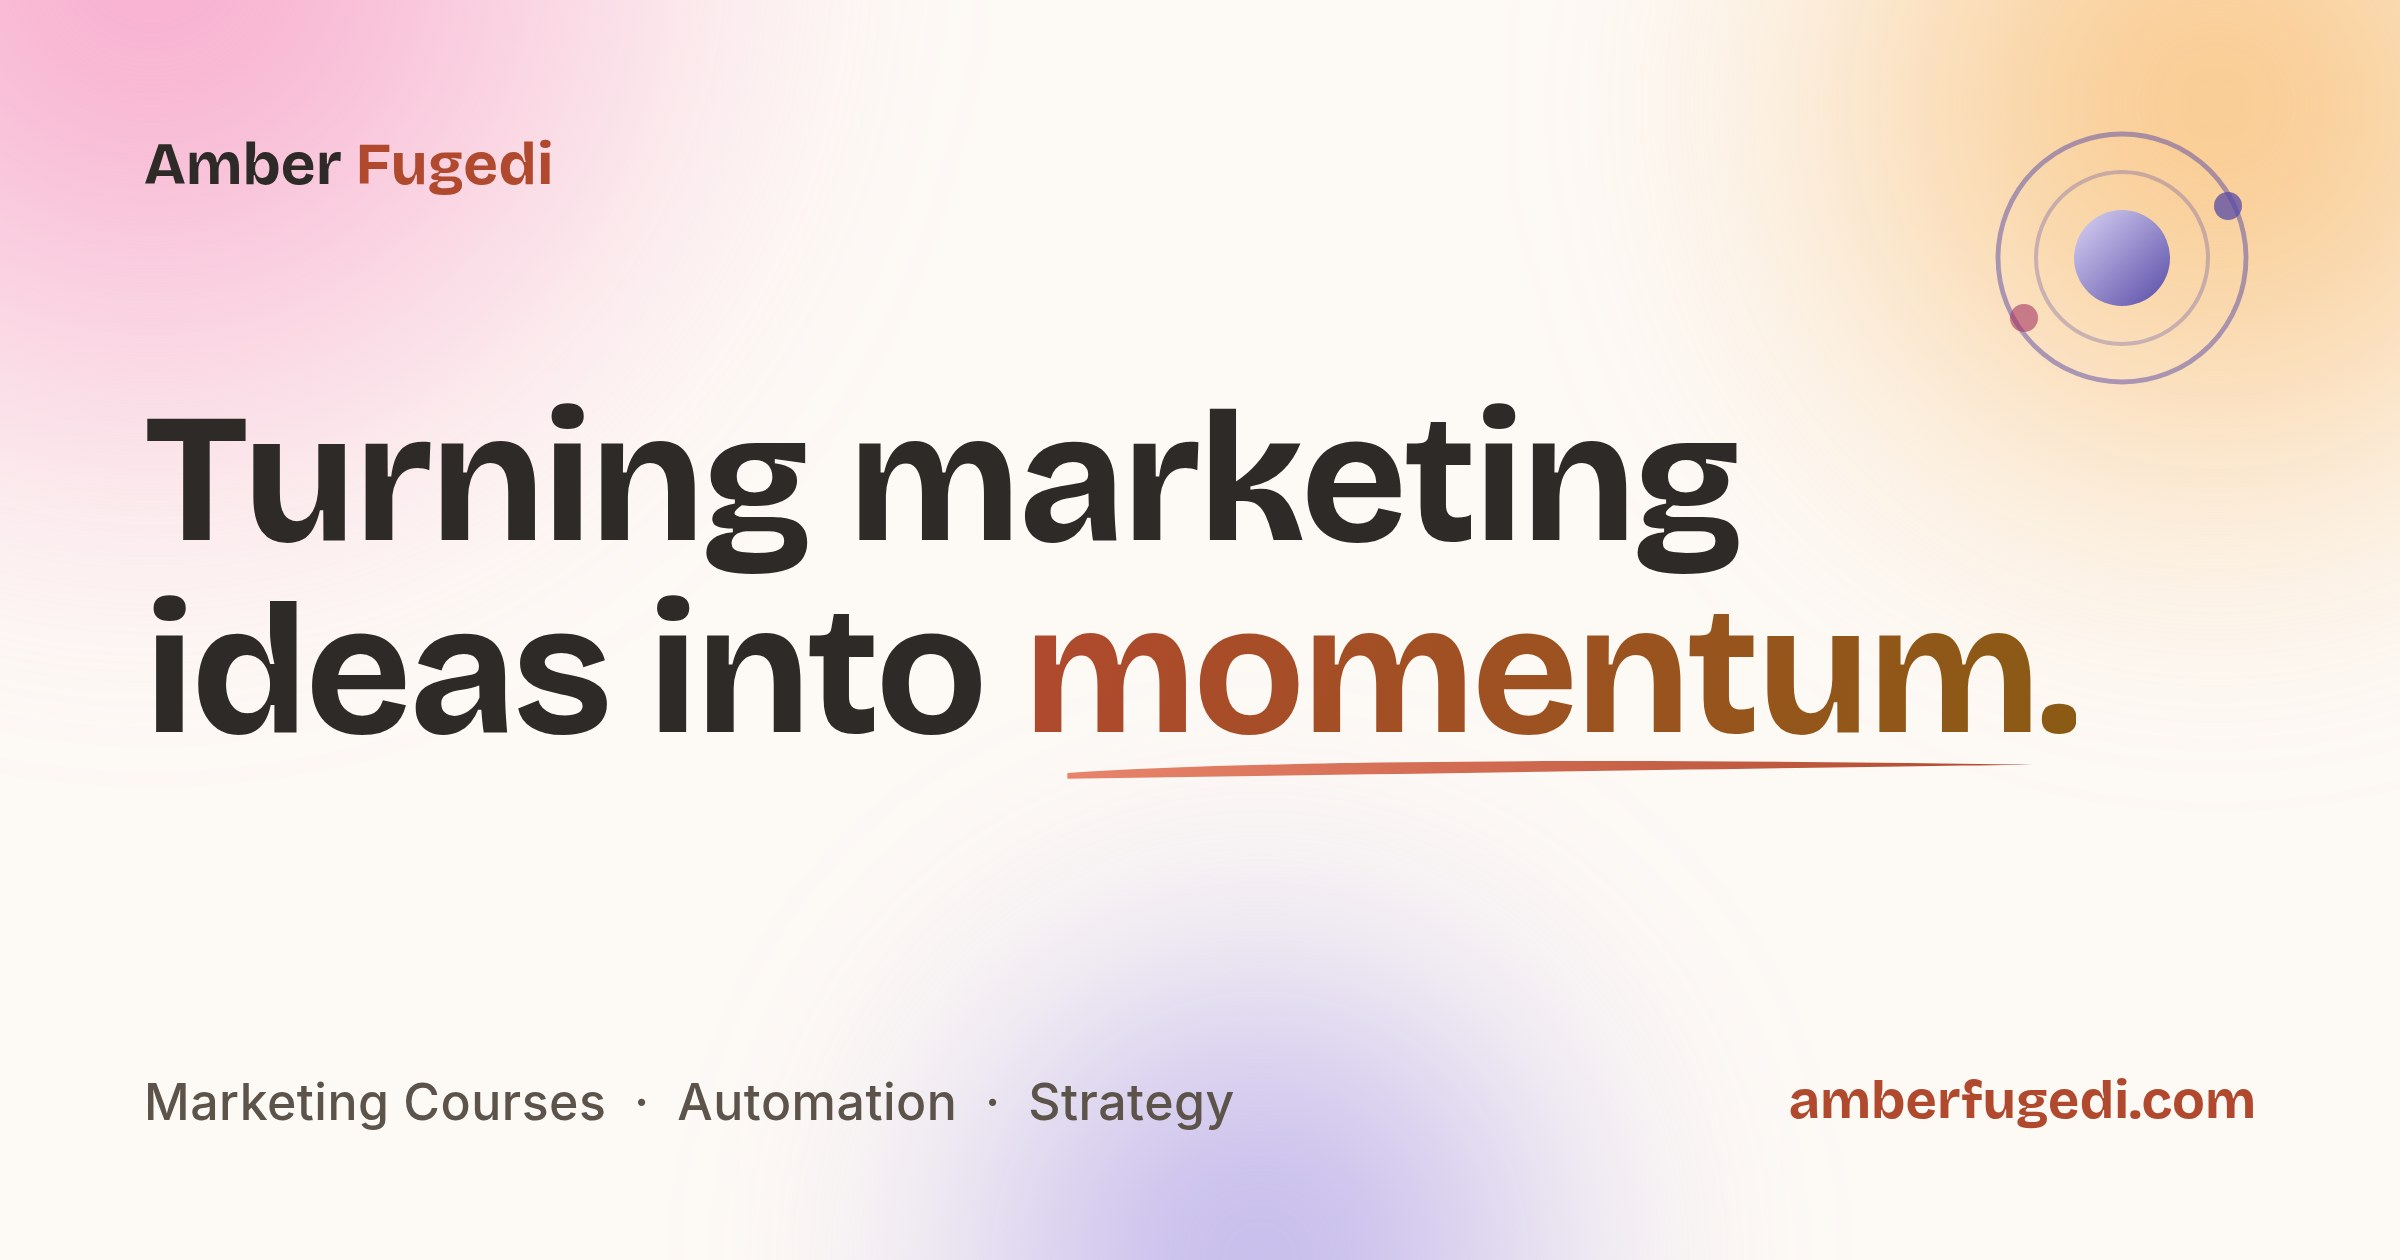
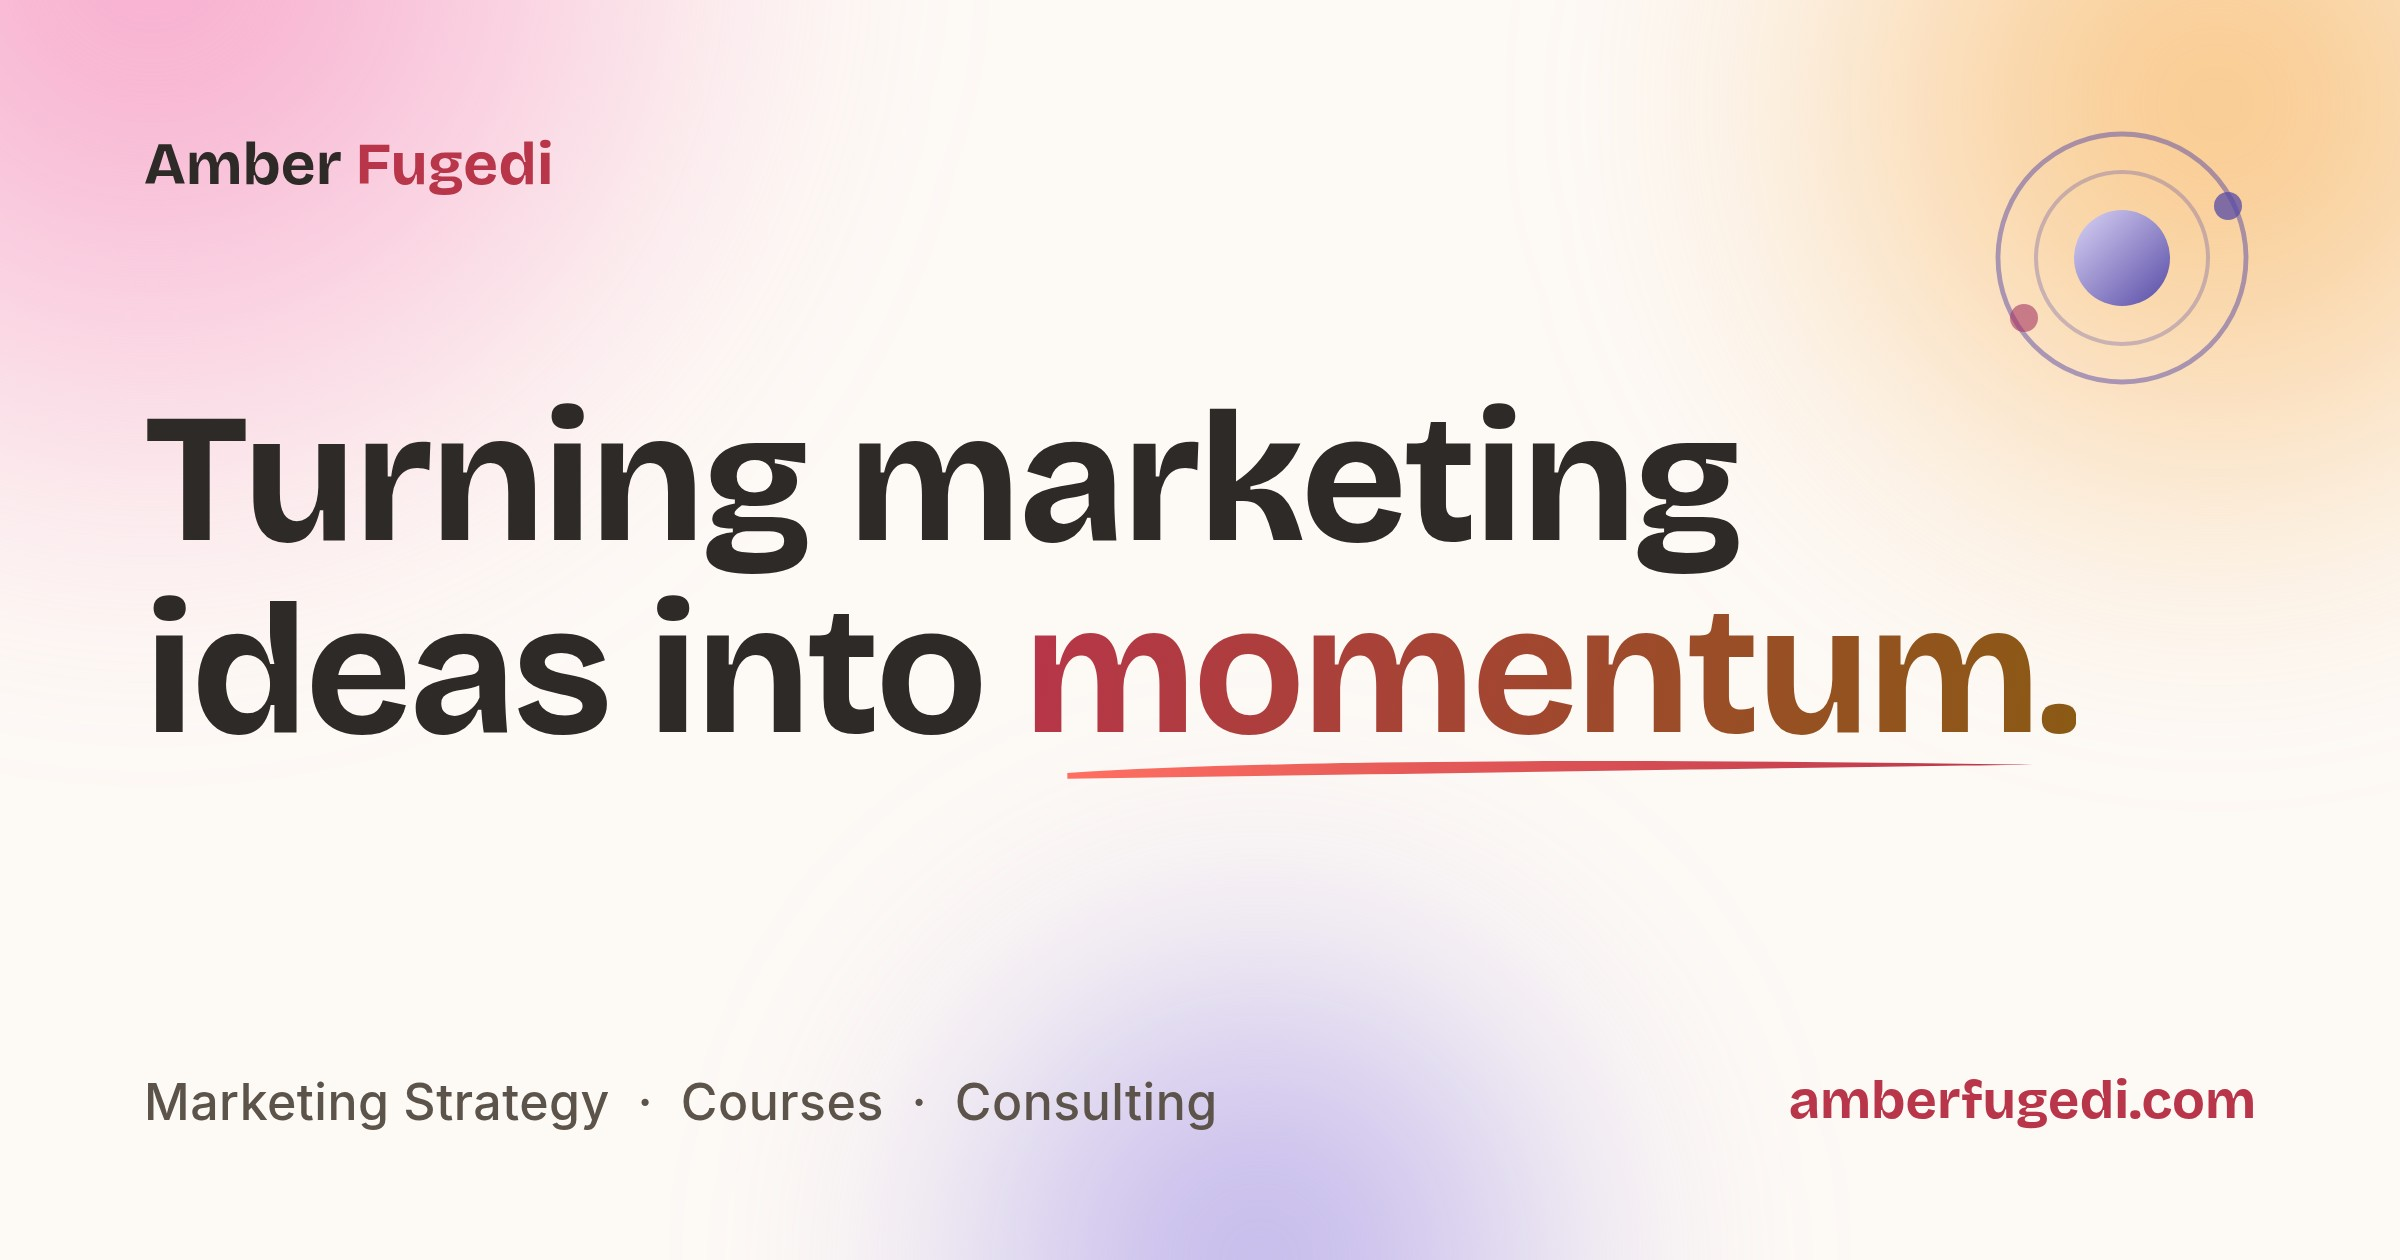
Shift accent from terracotta to true coral
--coral #E8846B -> #FF6F61 (Living Coral family), --coral-deep
#B0492E -> #B8354A (rose-red instead of rust). Swapped in tokens,
button and CTA gradients, hover shadows, anchor-nav tint, link
underline tint, hero swash SVG, favicon, and a regenerated og-image
(which also picks up the current Strategy/Courses/Consulting
tagline). Contrast verified: ink on coral 5.2:1, coral-deep on
cream 5.5:1. MASTER.md token table updated.

Claude-Session: https://claude.ai/code/session_01Lhb4GUPgbEXnZWa11iUg6i

diff --git a/styles.css b/styles.css
@@ -19,8 +19,8 @@
   --ink: #2E2A27;          /* headings + body — 13.3:1 on cream */
   --body: #3E3833;         /* ~11:1 */
   --muted: #5C544B;        /* secondary text — ~7:1, no pale grays */
-  --coral: #E8846B;        /* fills/buttons only — NOT for text on cream */
-  --coral-deep: #B0492E;   /* coral used AS text — 5.1:1 on cream */
+  --coral: #FF6F61;        /* fills/buttons only — NOT for text on cream */
+  --coral-deep: #B8354A;   /* coral used AS text — 5.5:1 on cream */
   --blush: #FBD5E4;
   --peach: #FCE4C4;
   --lavender: #DAD4F5;
@@ -93,7 +93,7 @@ main p a, .form-note a, .footer-inner a {
   text-decoration: underline;
   text-decoration-thickness: 1.5px;
   text-underline-offset: 3px;
-  text-decoration-color: rgba(176, 73, 46, 0.4);
+  text-decoration-color: rgba(184, 53, 74, 0.4);
   transition: text-decoration-color 0.2s;
 }
 main p a:hover, .form-note a:hover, .footer-inner a:hover {
@@ -313,14 +313,14 @@ body.page-sub .aura { opacity: 0.45; }
 }
 .btn-arrow::after { content: " →"; }
 .btn-primary {
-  background: linear-gradient(135deg, var(--coral), #E0724F);
+  background: linear-gradient(135deg, var(--coral), #F85B55);
   color: var(--ink); /* dark on coral = 5.4:1; white would fail */
-  box-shadow: 0 12px 30px -12px rgba(232, 132, 107, 0.65);
+  box-shadow: 0 12px 30px -12px rgba(255, 111, 97, 0.65);
 }
 .btn-primary:hover {
-  background: #E0724F;
+  background: #F85B55;
   transform: translateY(-2px);
-  box-shadow: 0 18px 36px -12px rgba(232, 132, 107, 0.7);
+  box-shadow: 0 18px 36px -12px rgba(255, 111, 97, 0.7);
 }
 .btn-outline {
   border: 1.5px solid var(--ink);
@@ -761,7 +761,7 @@ section { padding: 104px 0; }
 .anchor-nav a.nav-courses.active     { color: var(--courses-deep);     background: var(--peach); }
 .anchor-nav a.nav-automations.active { color: var(--automations-deep); background: var(--lavender); }
 .anchor-nav a.nav-consulting.active  { color: var(--consulting-deep);  background: var(--blush); }
-.anchor-nav a.nav-capabilities.active { color: var(--coral-deep); background: rgba(232, 132, 107, 0.18); }
+.anchor-nav a.nav-capabilities.active { color: var(--coral-deep); background: rgba(255, 111, 97, 0.18); }
 
 .offer-section { scroll-margin-top: 140px; }
 .offer-section.offer-courses     { background: linear-gradient(180deg, rgba(252,228,196,0.28), transparent 75%); }
@@ -1139,7 +1139,7 @@ input::placeholder, textarea::placeholder { color: var(--muted); }
 input:focus, textarea:focus {
   outline: none;
   border-color: var(--coral-deep);
-  box-shadow: 0 0 0 3px rgba(232, 132, 107, 0.3);
+  box-shadow: 0 0 0 3px rgba(255, 111, 97, 0.3);
 }
 textarea { resize: vertical; min-height: 140px; }
 
@@ -1175,7 +1175,7 @@ input[aria-invalid="true"], textarea[aria-invalid="true"] { border-color: var(--
   background:
     radial-gradient(circle at 12% 0%, rgba(251, 213, 228, 0.5), transparent 55%),
     radial-gradient(circle at 88% 100%, rgba(218, 212, 245, 0.5), transparent 55%),
-    linear-gradient(135deg, var(--coral), #E0724F);
+    linear-gradient(135deg, var(--coral), #F85B55);
   border-radius: 28px;
   padding: clamp(40px, 6vw, 72px);
   text-align: center;

diff --git a/index.html b/index.html
@@ -141,7 +141,7 @@
     <!-- ============ Hero ============ -->
     <header class="hero">
       <div class="wrap hero-content">
-        <h1>Turning marketing ideas into <em>momentum.<svg class="squiggle" viewBox="0 0 260 22" preserveAspectRatio="none" aria-hidden="true"><defs><linearGradient id="g-swash" x1="0" y1="0" x2="1" y2="0"><stop offset="0" stop-color="#E8846B"/><stop offset="1" stop-color="#B0492E"/></linearGradient></defs><path d="M6 14 C 60 6, 150 5, 254 9 C 200 10.5, 100 14.5, 6 17.5 Z" fill="url(#g-swash)"/></svg></em></h1>
+        <h1>Turning marketing ideas into <em>momentum.<svg class="squiggle" viewBox="0 0 260 22" preserveAspectRatio="none" aria-hidden="true"><defs><linearGradient id="g-swash" x1="0" y1="0" x2="1" y2="0"><stop offset="0" stop-color="#FF6F61"/><stop offset="1" stop-color="#B8354A"/></linearGradient></defs><path d="M6 14 C 60 6, 150 5, 254 9 C 200 10.5, 100 14.5, 6 17.5 Z" fill="url(#g-swash)"/></svg></em></h1>
         <!-- {{ADJUST}}: second sentence (location line) kept from previous version — cut if unwanted -->
         <p class="subhead">I build strategies, campaigns, systems, and learning experiences that help teams execute better and grow. Based in Connecticut, working with teams everywhere.</p>
         <div class="cta-row">

diff --git a/design-system/MASTER.md b/design-system/MASTER.md
@@ -36,8 +36,8 @@ cliches. Year ranges may use dashes.
 | `--ink` | `#2E2A27` | Headings, button text on coral | 13.3:1 on bg |
 | `--body` | `#3E3833` | Body text | ~11:1 on bg |
 | `--muted` | `#5C544B` | Secondary text (darkest allowed gray) | ~7:1 on bg |
-| `--coral` | `#E8846B` | Fills/buttons ONLY — never text on cream (2.5:1) | pair with `--ink` text (5.4:1) |
-| `--coral-deep` | `#B0492E` | Coral as TEXT (links, eyebrows) | 5.1:1 on bg |
+| `--coral` | `#FF6F61` | Fills/buttons ONLY — never text on cream | pair with `--ink` text (5.2:1) |
+| `--coral-deep` | `#B8354A` | Coral as TEXT (links, eyebrows) | 5.5:1 on bg |
 | `--blush` | `#FBD5E4` | Consulting pastel + aura cloud | fill only |
 | `--peach` | `#FCE4C4` | Courses pastel + aura cloud | fill only |
 | `--lavender` | `#DAD4F5` | AI & Workflow pastel + aura cloud | fill only |
